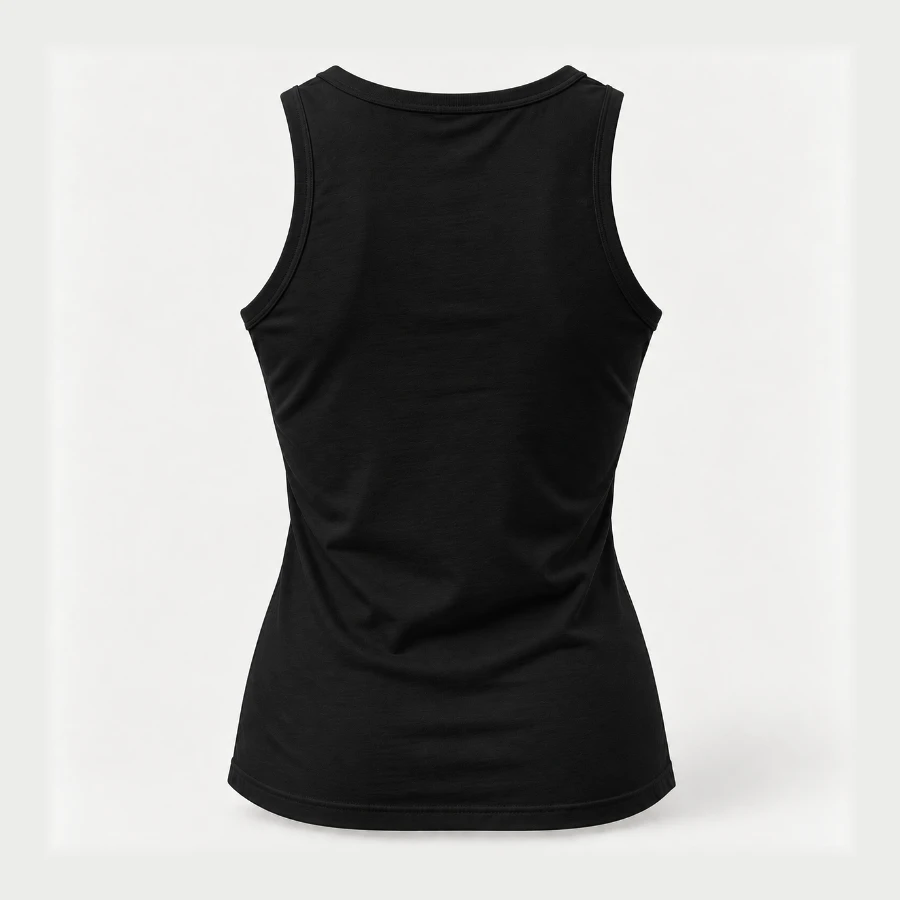
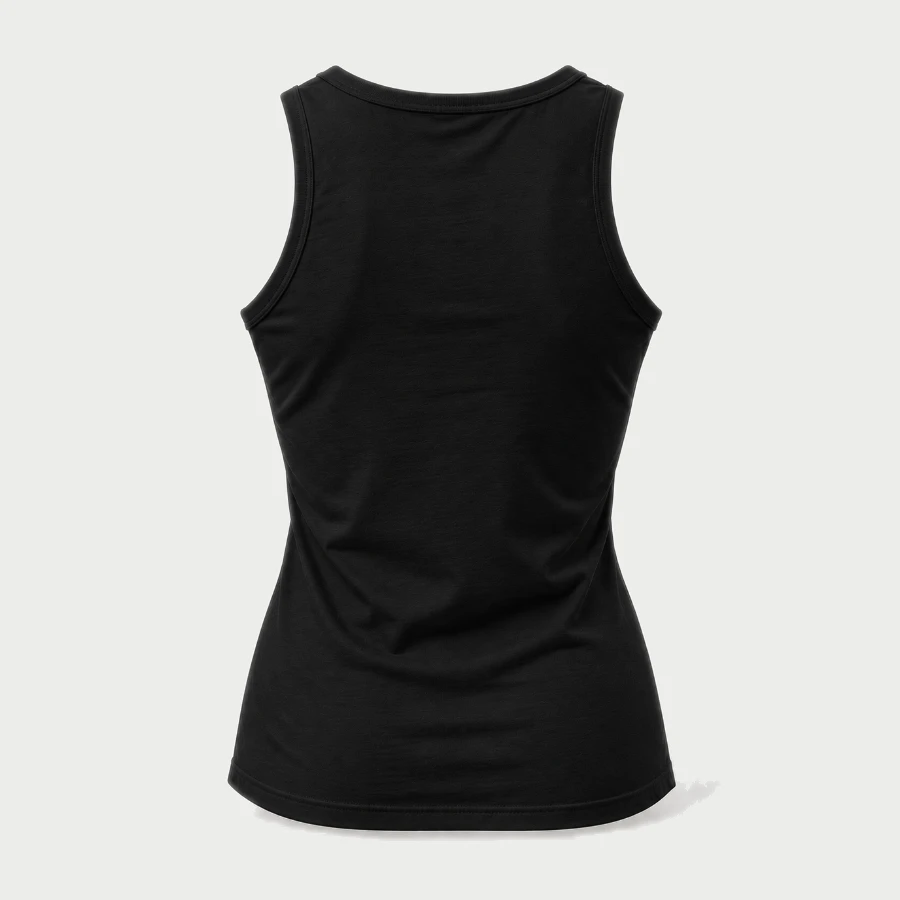
New hi-vis vest and jacket photos, seamless photo backdrops
Tank, long-sleeve, vest and jacket photos have their studio wall flattened
to the box grey so no edge shows. Vest and jacket use the new product
shots in yellow and orange; old mockups removed.

Claude-Session: https://claude.ai/code/session_019xa6L3VDLUS6Spv4RoBBK9

diff --git a/components/ProductArt.tsx b/components/ProductArt.tsx
@@ -260,28 +260,22 @@ const PHOTOS: Record<string, Photo | Photo[]> = {
   'tank:#1b1b1b:w': [photo('t-tank-black-w', 900, 900, 450, 341, 255, 237)],
   'tank:#f4f4f0:w': [photo('t-tank-white-w', 900, 900, 450, 341, 255, 237)],
   'tank:#e8f525:w': [photo('t-tank-yellow-w', 900, 900, 450, 341, 255, 237)],
-  'jacket:#e8f525': [photo('jacket-yellow', 680, 721, 345, 255, 205, 260)],
-  'jacket:#e8f525:w': [photo('jacket-yellow', 680, 721, 345, 255, 205, 260)],
-  'jacket:#ff7a1a': [photo('jacket-orange', 671, 719, 335, 255, 205, 260)],
-  'jacket:#ff7a1a:w': [photo('jacket-orange', 671, 719, 335, 255, 205, 260)],
   'longsleeve:#1b1b1b': [photo('t-longsleeve-black', 900, 900, 450, 300, 300, 230)],
   'longsleeve:#1b1b1b:w': [photo('t-longsleeve-black', 900, 900, 450, 300, 300, 230)],
   'longsleeve:#f4f4f0': [photo('t-longsleeve-white', 900, 900, 450, 300, 300, 230)],
   'longsleeve:#f4f4f0:w': [photo('t-longsleeve-white', 900, 900, 450, 300, 300, 230)],
   'longsleeve:#e8f525': [photo('t-longsleeve-yellow', 900, 900, 450, 300, 300, 230)],
   'longsleeve:#e8f525:w': [photo('t-longsleeve-yellow', 900, 900, 450, 300, 300, 230)],
+  'jacket:#e8f525': [photo('t-jacket-yellow', 900, 900, 450, 297, 300, 200)],
+  'jacket:#e8f525:w': [photo('t-jacket-yellow', 900, 900, 450, 297, 300, 200)],
+  'jacket:#ff7a1a': [photo('t-jacket-orange', 900, 900, 450, 297, 300, 200)],
+  'jacket:#ff7a1a:w': [photo('t-jacket-orange', 900, 900, 450, 297, 300, 200)],
+  'vest:#e8f525': [photo('t-vest-yellow', 900, 900, 450, 290, 360, 250)],
+  'vest:#e8f525:w': [photo('t-vest-yellow', 900, 900, 450, 290, 360, 250)],
+  'vest:#ff7a1a': [photo('t-vest-orange', 900, 900, 450, 290, 360, 250)],
+  'vest:#ff7a1a:w': [photo('t-vest-orange', 900, 900, 450, 290, 360, 250)],
   'raincover:#e8f525': [photo('raincover-yellow', 516, 632, 258, 312, 230, 210)],
   'raincover:#e8f525:w': [photo('raincover-yellow', 516, 632, 258, 312, 230, 210)],
-  'vest:#e8f525': [
-    photo('p-vest-yellow-a', 506, 674, 244, 213, 266, 203),
-    photo('p-vest-yellow-c', 514, 674, 244, 210, 268, 203),
-  ],
-  'vest:#e8f525:w': [
-    photo('p-vest-yellow-a', 506, 674, 244, 213, 266, 203),
-    photo('p-vest-yellow-c', 514, 674, 244, 210, 268, 203),
-  ],
-  'vest:#ff7a1a': [photo('vest-orange', 640, 723, 306, 224, 195, 230)],
-  'vest:#ff7a1a:w': [photo('vest-orange', 640, 723, 306, 224, 195, 230)],
 }
 
 // Advance widths of Archivo Black capitals, in em (measured from the font file)
@@ -385,11 +379,11 @@ function photoFor(art: Art, color: string, slogan: string, fit?: Fit) {
   return found[Math.abs(hash) % found.length]
 }
 
-// Backdrop colour of a photo, so the box around it can match (tees, tanks, long sleeves: light grey)
+// Backdrop colour of a photo, so the box around it can match (the t-… product shots: light grey)
 export const TEE_BG = 'rgb(236 236 234)'
 export function photoBg(art: Art, color: string, slogan: string, fit?: Fit) {
   const p = photoFor(art, color, slogan, fit)
-  return p && /\/t-(tee|tank|longsleeve)-/.test(p.src) ? TEE_BG : undefined
+  return p && /\/t-(tee|tank|longsleeve|jacket|vest)-/.test(p.src) ? TEE_BG : undefined
 }
 
 export function hasPhoto(art: Art, color: string, slogan: string, fit?: Fit) {
